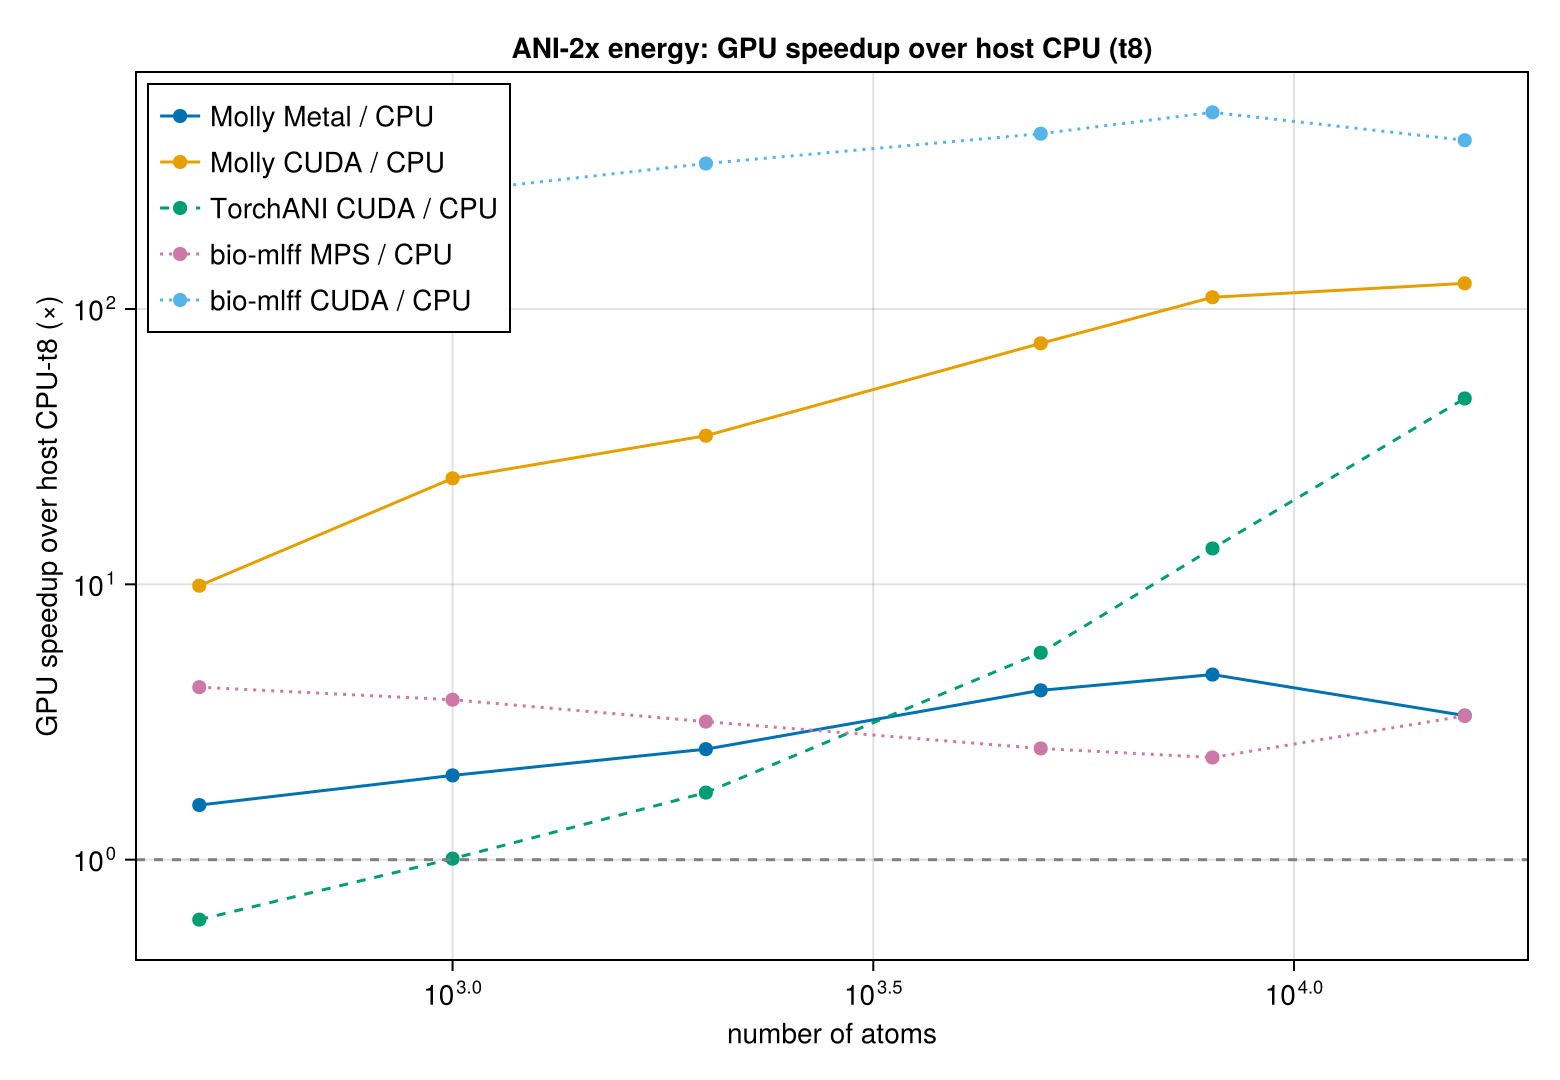
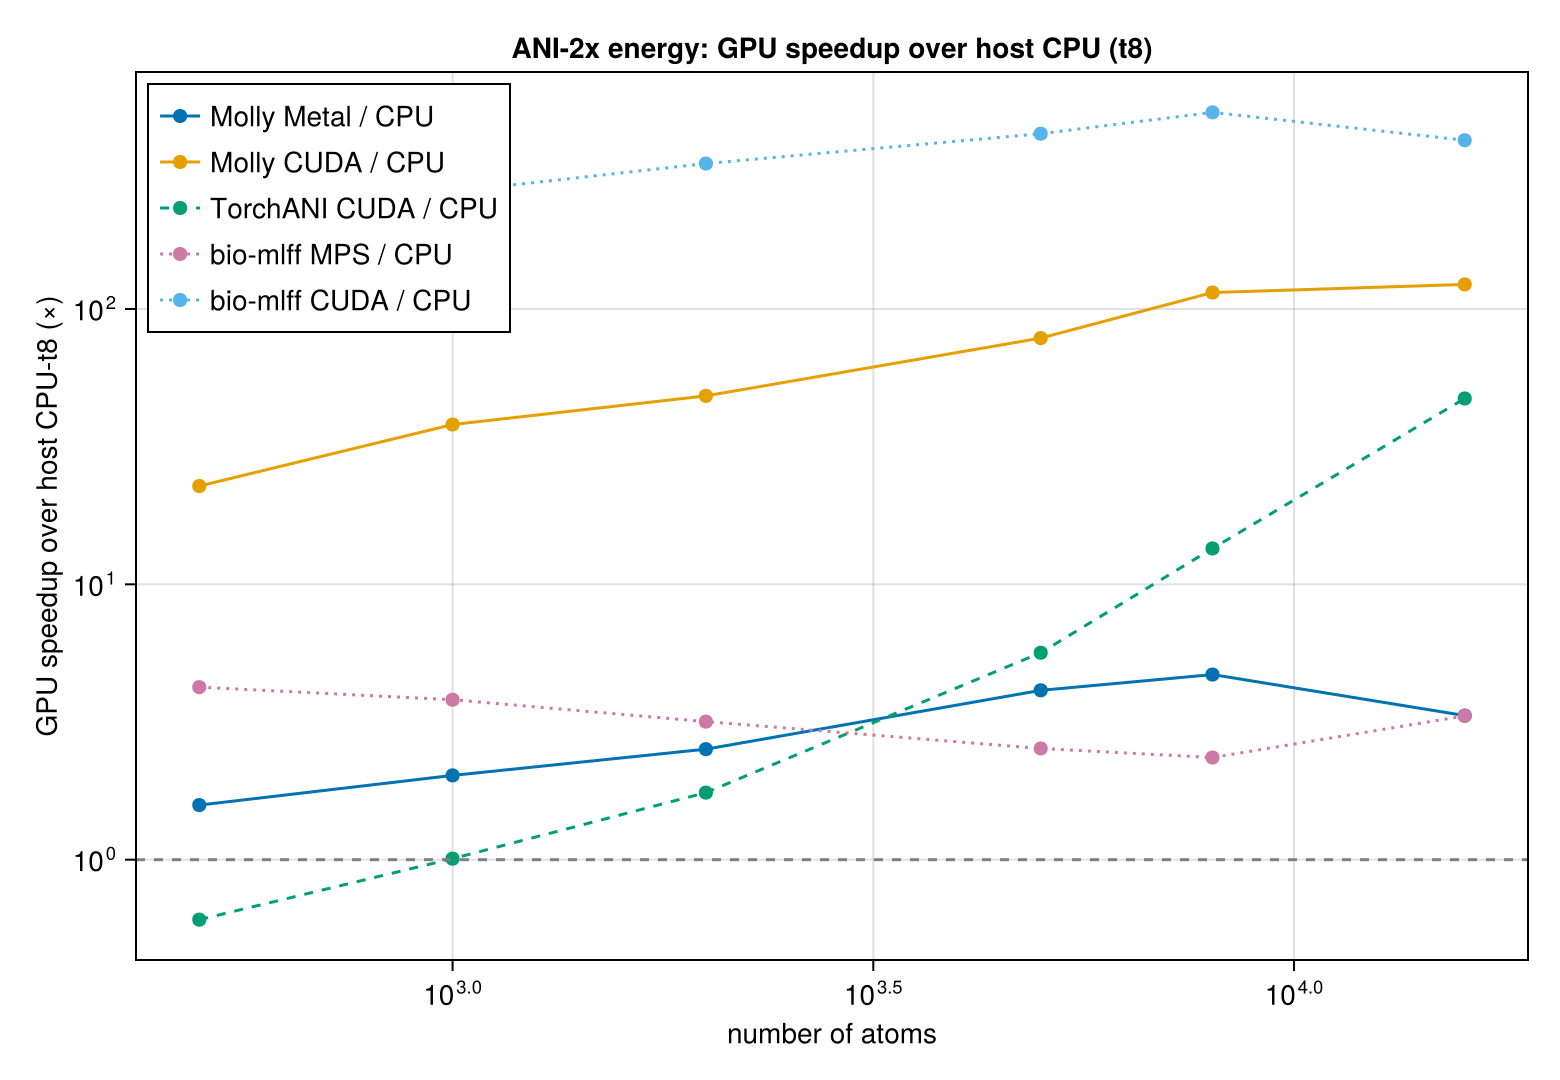
ANI: refresh CUDA benchmarks + plots with the whole-graph fused energy kernel (PR #260)
Re-ran the RTX 5080 benchmark; only Molly CUDA small-N energy changed (mega-kernel, ≤4000 atoms).
Updated the CUDA-section and cross-implementation energy tables and regenerated the figures.
Energy: 500 4.0->2.1 ms, 1000 4.1->2.5, 2000 4.4->3.3; 5k+ unchanged (staged path), forces
unchanged. bio-mlff's single XLA kernel still leads below ~8000 atoms; Molly wins from there up
and remains fastest at scale on both energy and forces.

diff --git a/benchmark/ani_benchmarks.md b/benchmark/ani_benchmarks.md
@@ -173,12 +173,16 @@ Energy (single member, ms; **lower is better**):
 
 | N atoms | CPU (t8) | **Molly CUDA** | TorchANI CUDA | bio-mlff CUDA |
 |---------|----------|------------|---------------|---------------|
-| 500     | 39.5   | **4.0**  | 32.5 | 0.5 |
-| 1000    | 100.5  | **4.1**  | 32.4 | 0.9 |
-| 2000    | 151.7  | **4.4**  | 32.6 | 1.4 |
-| 5000    | 388.3  | **5.2**  | 35.1 | 3.5 |
-| 8000    | 688.5  | **6.2**  | 38.8 | 5.9 |
-| **15,954** | 1492.1 | **12.0** | 58.2 | 24.4 |
+| 500     | 48.0   | **2.1**  | 32.5 | 0.5 |
+| 1000    | 95.0   | **2.5**  | 32.4 | 0.9 |
+| 2000    | 159.9  | **3.3**  | 32.6 | 1.4 |
+| 5000    | 407.5  | **5.2**  | 35.1 | 3.5 |
+| 8000    | 694.3  | **6.1**  | 38.8 | 5.9 |
+| **15,954** | 1435.2 | **11.7** | 58.2 | 24.4 |
+
+The small-N energy uses the **whole-graph fused kernel** (AEV+NN in one launch, ≤4000 atoms): 4.0→2.1
+ms at 500, 4.1→2.5 at 1000. bio-mlff's single XLA kernel is still faster below ~8000 atoms; Molly
+wins from there up.
 
 Forces (single member, ms):
 
@@ -228,9 +232,9 @@ Energy (ms):
 
 | N atoms | Molly t1 | Molly t8 | Molly Metal | **Molly CUDA** | TorchANI t1 | TorchANI t8 | TorchANI CUDA | bio-mlff t1 | bio-mlff t8 | bio-mlff MPS | bio-mlff CUDA |
 |---------|----------|----------|-------------|------------|-------------|-------------|---------------|-------------|-------------|--------------|---------------|
-| 1000    | 101.5 | 32.3  | 15.9  | **4.1**  | 50.1  | 32.7  | 32.4 | 45.7  | 45.9  | 12.0  | 0.9  |
-| 8000    | 403.5 | 196.9 | 41.9  | **6.2**  | 799.4 | 524.1 | 38.8 | 636.5 | 618.6 | 263.3 | 5.9  |
-| 15,954  | 1550  | 395.8 | 118.6 | **12.0** | 3629  | 2753  | 58.2 | 3663  | 4011  | 1205  | 24.4 |
+| 1000    | 101.5 | 32.3  | 15.9  | **2.5**  | 50.1  | 32.7  | 32.4 | 45.7  | 45.9  | 12.0  | 0.9  |
+| 8000    | 403.5 | 196.9 | 41.9  | **6.1**  | 799.4 | 524.1 | 38.8 | 636.5 | 618.6 | 263.3 | 5.9  |
+| 15,954  | 1550  | 395.8 | 118.6 | **11.7** | 3629  | 2753  | 58.2 | 3663  | 4011  | 1205  | 24.4 |
 
 Forces (ms):
 
